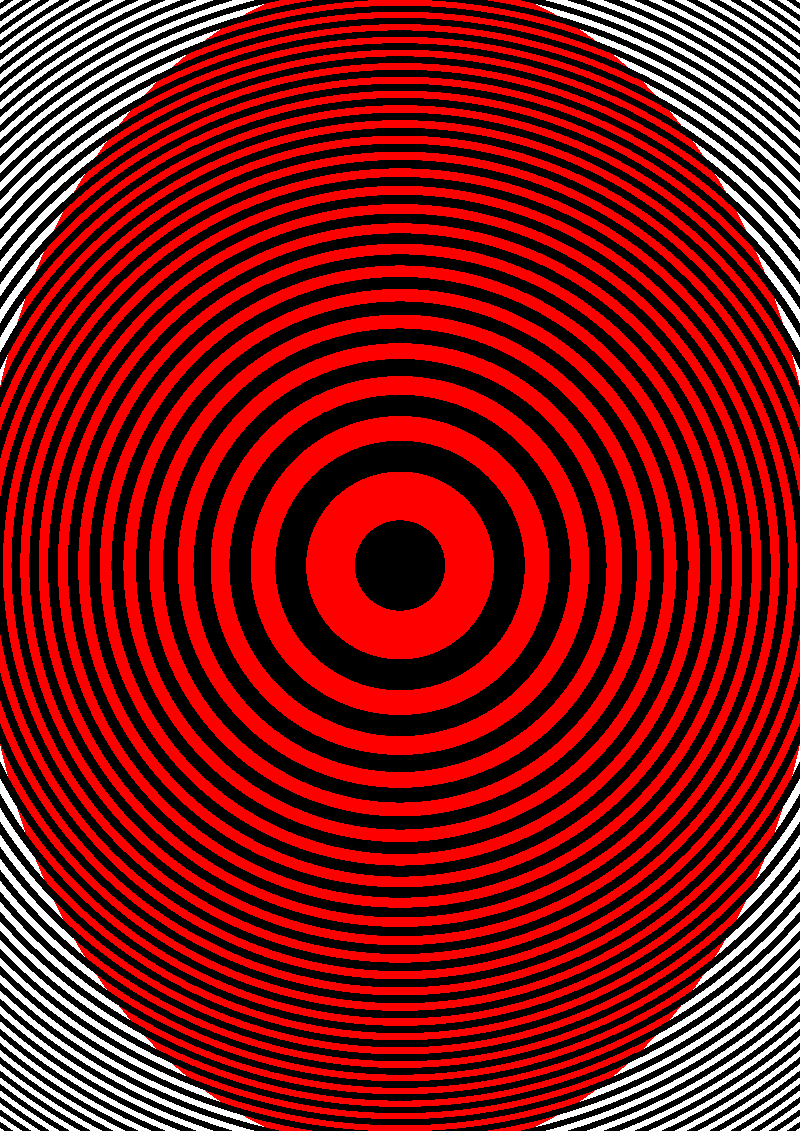
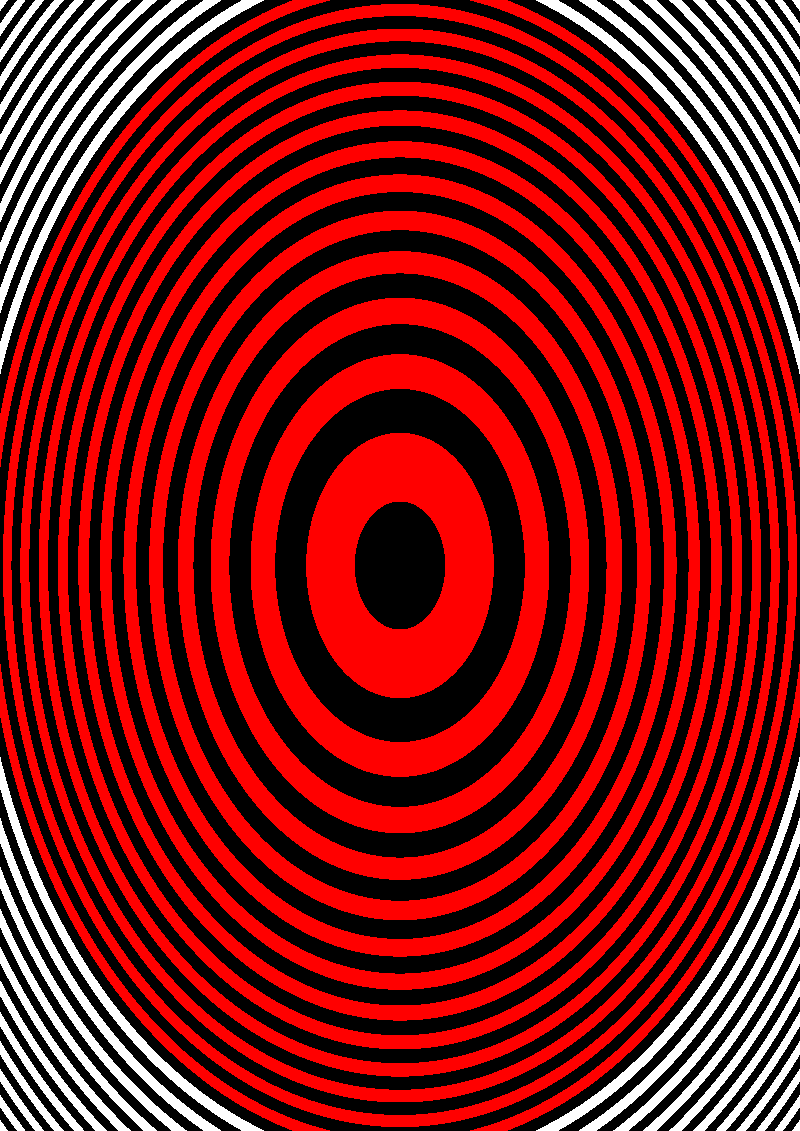
+

diff --git a/drawers/drawSpotDiagram.m b/drawers/drawSpotDiagram.m
@@ -1,4 +1,4 @@
-function drawSpotDiagram(PSFData,quad_)
+function drawSpotDiagram(PSFData,quad_, varargin)
           %DRAWSPOTDIAGRAM Summary of this function goes here
 %   Detailed explanation goes here
 %     fig_handler=figure('Units', 'centimeters', 'pos',  [0 0 dimension(1) dimension(2)]);
@@ -8,16 +8,45 @@ function drawSpotDiagram(PSFData,quad_)
 % tic
 % [x_spot,y_spot,colors,angleSize,waveLngthKeys,RMS,AverageGeo]=spotDiagram(quad_,rays);
 % toc
+
+
+
+
+if ~checkInputVars(varargin{:})
+    disp('incorrect list of input vars');
+%     return;
+else
+    path2psf = parseInputVars( 'savePSF2',varargin{:} );
+    if isempty(path2psf)
+       path2psf='';
+    end
+
+    path2spot = parseInputVars( 'saveSpot2',varargin{:} );
+    if isempty(path2spot)
+    path2spot='';
+    end
+end
+
+% aperture,tickness,r_1,r_2 
+
+
+
+
+
+
 spacing = [length(PSFData.WaveLengths)/3 3];
 
-
-    spacing(1)=floor(spacing(1))+1;
-
-
+spacing(1)=floor(spacing(1))+1;
 
 allSpotsIdx=[length(PSFData.WaveLengths)+1 length(PSFData.WaveLengths)+3];
 
-fig_1=figure(1);
+
+fig_1 = figure('Units', 'normalized', 'OuterPosition', [0 0 1 1]);
+
+set(fig_1,'DefaultAxesFontSize',14,'DefaultAxesFontName','Times New Roman');
+
+set(fig_1,'DefaultTextFontSize',14,'DefaultTextFontName','Times New Roman'); 
+
 % spacing(2)=spacing(2)+2;
 
 %% Drawning spot diagramm 
@@ -25,37 +54,51 @@ for i=1:length(PSFData.WaveLengths)
 DrawSpot(PSFData.XSpot{i},PSFData.YSpot{i},...
          PSFData.SpotColor{i},PSFData.WaveLengths{i},...
          PSFData.RMS{i},PSFData.AvgR{i},{spacing(1) ,spacing(2), i},quad_);
-DrawQuadSpotDiagramm(quad_);
+% DrawQuadSpotDiagramm(quad_);
 
 end
  DrawSpot(PSFData.XSpot,PSFData.YSpot,...
           PSFData.SpotColor,PSFData.WaveLengths,...
           PSFData.RMS,PSFData.AvgR,{spacing(1) ,spacing(2), allSpotsIdx},quad_);
- DrawQuadSpotDiagramm(quad_);
+%  DrawQuadSpotDiagramm(quad_);
 %% Drawning intencity diagramm
-fig_2=figure(2);
+if ~isempty(path2spot)
+    plot2svg(path2spot,fig_1);
+end
+
+
+fig_2 = figure('Units', 'normalized', 'OuterPosition', [0 0 1 1]);
+
+set(fig_2,'DefaultAxesFontSize',14,'DefaultAxesFontName','Times New Roman');
+
+set(fig_2,'DefaultTextFontSize',14,'DefaultTextFontName','Times New Roman'); 
 
 for i=1:length(PSFData.WaveLengths)
 DrawIntencity(PSFData.WaveLengths{i},...
          PSFData.RMS{i},PSFData.AvgR{i},PSFData.PSFLayers{i},{spacing(1) ,spacing(2), i},quad_);
-DrawQuadSpotDiagramm(quad_);
+% DrawQuadSpotDiagramm(quad_);
 end
 DrawIntencity(PSFData.WaveLengths ,...
          PSFData.RMS ,PSFData.AvgR ,PSFData.PSFLayers ,{spacing(1) ,spacing(2), allSpotsIdx},quad_);
-DrawQuadSpotDiagramm(quad_);
+% DrawQuadSpotDiagramm(quad_);
+
+if ~isempty(path2psf	)
+    plot2svg(path2psf,fig_2);
+end
+
 end
 
 function DrawQuadSpotDiagramm(quad_)
-  hold on;
- if quad_.apertureType==1 % rectangular aperture
-     L2=quad_.apertureData(1);
-     H2=quad_.apertureData(2);
-     plot(0.5*[-L2 L2   L2 -L2 -L2]+quad_.position(1),...
-            0.5*[H2 H2 -H2 -H2  H2]+quad_.position(2),'k','LineWidth',1.5);
-     xlim([-0.51*L2 0.51*L2]+quad_.position(1));
-     ylim([-0.51*H2 0.51*H2]+quad_.position(2));
-    end % we don't plot the boundaries if the quad is not rectangular. To be fixed
-hold off;
+%   hold on;
+%  if quad_.apertureType==1 % rectangular aperture
+%      L2=quad_.apertureData(1);
+%      H2=quad_.apertureData(2);
+%      plot(0.5*[-L2 L2   L2 -L2 -L2]+quad_.position(1),...
+%             0.5*[H2 H2 -H2 -H2  H2]+quad_.position(2),'k','LineWidth',1.5);
+%      xlim([-0.51*L2 0.51*L2]+quad_.position(1));
+%      ylim([-0.51*H2 0.51*H2]+quad_.position(2));
+%     end % we don't plot the boundaries if the quad is not rectangular. To be fixed
+% hold off;
 end
 
 function DrawSpot(x_spot,y_spot,colors,wLength,RMS,AverageGEO,position,quad)
@@ -65,15 +108,18 @@ wl='';
 legend_map={};
 
 if length(wLength)~=1
-    for i=1:length(wLength)
-        wl = [wl,'  \lambda = ',num2str(wLength{i}),' \mum'];
+    for i=1:length(wLength)-1
+        wl = [wl,'  \lambda = ',num2str(wLength{i}),' \mum,'];
         legend_map{i}=['  \lambda = ',num2str(wLength{i}),' \mum', ' RMS = ',num2str(RMS{i}),' GEO = ',num2str(AverageGEO{i})];
     end
+    wl = [wl,'  \lambda = ',num2str(wLength{length(wLength)}),' \mum.'];
+        legend_map{length(wLength)}=['  \lambda = ',num2str(wLength{length(wLength)}),' \mum', ' RMS = ',num2str(RMS{i}),' GEO = ',num2str(AverageGEO{length(wLength)})];
 else
    wl = [wl,'  \lambda = ',num2str(wLength),' \mum']; 
 %    legend_map={['  \lambda = ',num2str(wLength),' \mum'],[ ' RMS = ',num2str(RMS)],[' GEO = ',num2str(AverageGEO)]};
 end
-
+x_lims=[inf,-inf];
+y_lims=[inf,-inf];
 
 title(['Spot diagramm for ',wl]);
 
@@ -81,10 +127,15 @@ if iscell(x_spot)
         if length(x_spot)~=length(y_spot)
               disp('error in spot diagram drawning');return;
         end
-%          for j=1:length(x_spot)
+        
+        %          for j=1:length(x_spot)
 %             patch([x_spot{j} ;0],[y_spot{j}; nan],'EdgeColor','none','Marker','o','MarkerFaceColor','flat');
 %         end
     for j=1:length(x_spot)
+        
+        x_lims=[min(x_lims(1),min(x_spot{j})),max(x_lims(2),max(x_spot{j}))];
+        y_lims=[min(y_lims(1),min(y_spot{j})),max(y_lims(2),max(y_spot{j}))];
+        
             if length(x_spot{j})>5500
             for i=1:5500
                 idx=1+randi(length(x_spot{j})-1);
@@ -101,12 +152,22 @@ if iscell(x_spot)
                 end
             end
     end
+    x_lims=1.25*(x_lims-sum(x_lims)/2)+sum(x_lims)/2;
+    y_lims=1.25*(y_lims-sum(y_lims)/2)+sum(y_lims)/2;
+    xlim(x_lims);
+    ylim(y_lims);
+    axis equal;
      col=[];
      for i=1:length(colors)
-     col=[col;min(colors{i})];
+         col = [col;min(colors{i})];
      end
 else
+        
+        x_lims=[min(x_spot),max(x_spot)];
+        y_lims=[min(y_spot),max(y_spot)];
+      
     if length(x_spot)>5500
+        
         for i=1:5500
             idx=1+randi(length(x_spot)-1);
             if~(norm(colors(idx,:)-[0.05 0.05 0.05])<=0.05)
@@ -121,16 +182,21 @@ else
             end
         end
     end
+      x_lims=1.25*(x_lims-sum(x_lims)/2)+sum(x_lims)/2;
+    y_lims=1.25*(y_lims-sum(y_lims)/2)+sum(y_lims)/2;
+    xlim(x_lims);
+    ylim(y_lims);
+     
      col=[];
 %      for i=1:length(colors)
      col = [min(colors)];
 %      end
 end
- L2=quad.apertureData(1)/2;
- H2=quad.apertureData(2)/2;
+%  L2=quad.apertureData(1)/2;
+%  H2=quad.apertureData(2)/2;
  
   for i=length(legend_map):-1:1 
-      text(-4,1+(i-1)*0.75,legend_map{i},'Color',col(i,:));
+      text(x_lims(2)*1.25,y_lims(1)*0.85+(i-1)*(x_lims(2)-x_lims(1))/length(legend_map),legend_map{i},'Color',col(i,:));
   end
 
  

diff --git a/SchemeVeronica.m b/SchemeVeronica.m
@@ -22,6 +22,7 @@ ofsett= 42.1577;
 [ lens_3 ] = getLens('aperture', 6,'tickness', 2.952076,'r1', -18.389841,'r2', 79.683603,'material','SK16');
 [ lens_3 ] = moveLens( lens_3,[0 0 position+ofsett*2+2]);
 
+
 radialDG = flatQuad('aperture', [8 8 0],'apertureType',1,'position',[0 0 position+ofsett+1]);
 
 % radialDG = flatQuad( [8 8 0],1,[0 0 0],[0 0 position+ofsett+1]);
@@ -35,9 +36,10 @@ radialDG = convertQuad2RadialDG(radialDG, 0.032,  1, 0, 10^10);
 
 schema={};
 
-sequensce=[ 1 2 3 8 5 6 7 9];
+sequensce=[ 1 2 3 8 4 5 6 7 9];
 % sequensce=[ 1 2 3 5 6 7 8];
-
+% sequensce=[ 1 2 3 4 5 6 7 9];
+%  sequensce=[8 4 9];
 % sequensce=[ 8];
 % sequensce=[ 1 2 3 5 6 7 8];
 schema{1}=lens1;
@@ -59,8 +61,9 @@ schema{9}=detector;
 
 %   LED_source=paraxialSpot([0 0 -50],[4.95 5],'coloredCheceker.png');
 tic
-  LED_source=Spot('distance',0,'apertureType','circ','aperture',[4.99 5],'Nrays',1,'Mrays',512,'position',[0 0 -10],'fields',{[0 0]},...
-      'waveLenghts',linspace(0.4,0.7,3),'radialModulation',@(t)(0.5+0.5*(sin(10*t))));%,'fields',{[0 0],[0 0.1],[0 0.2]});
+field_y = 5;
+  LED_source=Spot('position',[0 0 0],'apertureType','circ','aperture',[4.99 5],'Nrays',1,'Mrays',512,'position',[0 0 -10],...
+      'waveLenghts',linspace(0.38,0.78,6),'distance',10000,'fields',{[0 field_y]});
 % LED_source=LED([0 0 -10], 0.1);%paraxialSpot([0 0 -10],[4.8 4.9]);% [ raysIn, raysMiddle, raysOut ] = traceThroughSystem( LED_source, schema);
 % as sequence
 [ raysIn, raysMiddle, raysOut ] = traceThroughSystem(LED_source, schema,sequensce);
@@ -81,7 +84,7 @@ zlim([-50 200]);
 [ PSF] = getPSFData( raysOut,schema{9},512,512);
 
  
-drawSpotDiagram(PSF,schema{9});
+drawSpotDiagram(PSF,schema{9},'saveSpot2',['spotDiagrammForField [0 ',num2str(field_y),'].svg']);
 toc;
        % [~,~,~,~]=drawSpotDiagram(fig_2,schema{11},raysOut);
 % 

diff --git a/surfaces/Materials.m b/surfaces/Materials.m
@@ -2,9 +2,9 @@ function [ refIndexData ] = Materials( nameOfMaterial )
 keys= {'air','silica','SK16','F2'};
 %Silica glass data was tken from:  https://refractiveindex.info/?shelf=glass&book=fused_silica&page=Malitson
 values={struct('Desciption','air','refractionIndexData',[     0          0         0         0         0        0   ]),...
-            struct('Desciption','silica','refractionIndexData',[0.6961663  0.0684043 0.4079426 0.1162414 0.8974794 9.896161]),...
-            struct('Desciption','SK16','refractionIndexData',  [1.343177740  7.04687339*10^-3 2.41144399*10^-1 2.29005*10^-2 9.94317969*10^-1 9.27508526*10]),...
-            struct('Desciption','F2','refractionIndexData',[1.34533359  9.97743871*10^-3 2.09073176*10^-1 4.70450767*10^-2 9.37357162*10^-1 1.11886764*10^2])};%silica
+        struct('Desciption','silica','refractionIndexData',[0.6961663  0.0684043 0.4079426 0.1162414 0.8974794 9.896161]),...
+        struct('Desciption','SK16','refractionIndexData',  [1.343177740  7.04687339*10^-3 2.41144399*10^-1 2.29005*10^-2 9.94317969*10^-1 9.27508526*10]),...
+        struct('Desciption','F2','refractionIndexData',[1.34533359  9.97743871*10^-3 2.09073176*10^-1 4.70450767*10^-2 9.37357162*10^-1 1.11886764*10^2])};%silica
 M = containers.Map(keys,values);
     if M.isKey(nameOfMaterial)
        refIndexData=M(nameOfMaterial);

diff --git a/sources/Spot.m b/sources/Spot.m
@@ -117,9 +117,9 @@ for k=1:length(waveLengths)
     for i=1:N
         for j=1:M
         p = [x_s(i) y_s(j) 0];
-        e = p - field;t=norm(e); e=e/t;
+        e = p - field; t = norm(e); e=e/t;
         intence= modFuncX(x_s(i))*modFuncY(y_s(i))*intensity;
-        rays=[rays; [position+field,-e,0,t,waveLengths(k),intence,  getTrueColor(intence,color_)]];
+        rays=[rays; [position-field,-e,0,t,waveLengths(k),intence,  getTrueColor(intence,color_)]];
         end
     end
 end
@@ -140,7 +140,7 @@ function rays=getCircSpot(position,aperture,N,M,field,waveLengths,modFunc)
 %             p = p_;
             e = p_ - field;t=norm(e); e=e/t;
              intence= modFunc(phi_s(j))*intensity*norm(p_)/max(aperture);
-             rays=[rays; [position+field,-e,0,t,waveLengths(k),intence,  getTrueColor(intence,color_)]];
+             rays=[rays; [position-field,-e,0,t,waveLengths(k),intence,  getTrueColor(intence,color_)]];
             end
         end
     end

diff --git a/utils/redot.m b/utils/redot.m
@@ -1,0 +1,49 @@
+function [ ] = redot()
+%REDOT Summary of this function goes here
+%   Detailed explanation goes here
+%DOT2 Summary of this function goes here
+%   Detailed explanation goes here
+childs = get(gcf,'Children');
+
+for i=1:length(childs)
+    if strcmp(get(childs(i),'Tag'),'Colorbar')
+        YColorTickLabel=get(childs(i),'YTickLabel');
+       for k=1:size(YColorTickLabel,1)
+            z=strfind(YColorTickLabel(k,:),'.');
+            YColorTickLabel(k,z)=',';
+            clear z;
+       end 
+       set(childs(i),'YTickLabel',YColorTickLabel);
+    end
+end
+
+
+
+
+YA=get(gca,'YTickLabel');
+
+for i=1:size(YA,1)
+
+    z=strfind(YA(i,:),'.');
+    YA(i,z)=',';
+    clear z;
+end
+
+
+set(gca,'YTickLabel',YA);
+
+XA=get(gca,'XTickLabel');
+for i=1:size(XA,1)
+
+    z=strfind(XA(i,:),'.');
+    XA(i,z)=',';
+    clear z;
+  
+end
+
+
+set(gca,'XTickLabel',XA);
+
+
+end
+

diff --git a/surfaces/getLens.m b/surfaces/getLens.m
@@ -100,9 +100,9 @@ end
 
 function n = dispersionLaw(lam, Ndata)
 
-n    =    sqrt(1  +    Ndata(1)*lam.^2./(lam.^2-Ndata(2)^2)...
-                      +    Ndata(3)*lam.^2./(lam.^2-Ndata(4)^2)+...
-                            Ndata(5)*lam.^2./(lam.^2-Ndata(6)^2));
+n    =    sqrt(1+Ndata(1)*lam.^2./(lam.^2-Ndata(2)^2)...
+                +Ndata(3)*lam.^2./(lam.^2-Ndata(4)^2)+...
+                 Ndata(5)*lam.^2./(lam.^2-Ndata(6)^2));
 
 end
 
